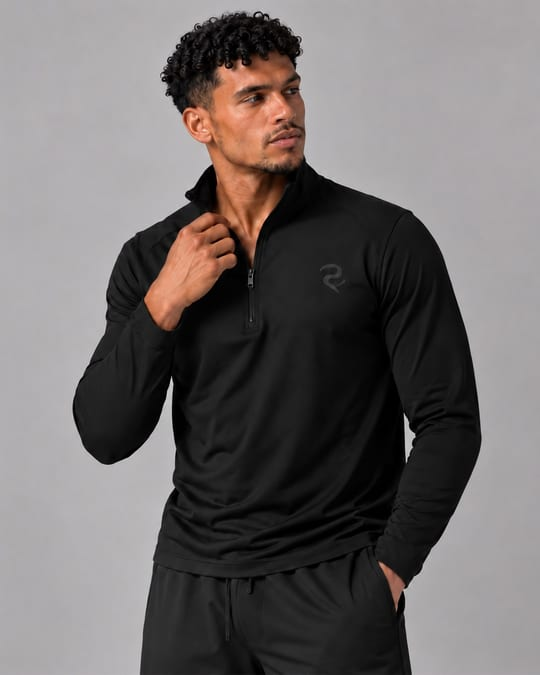
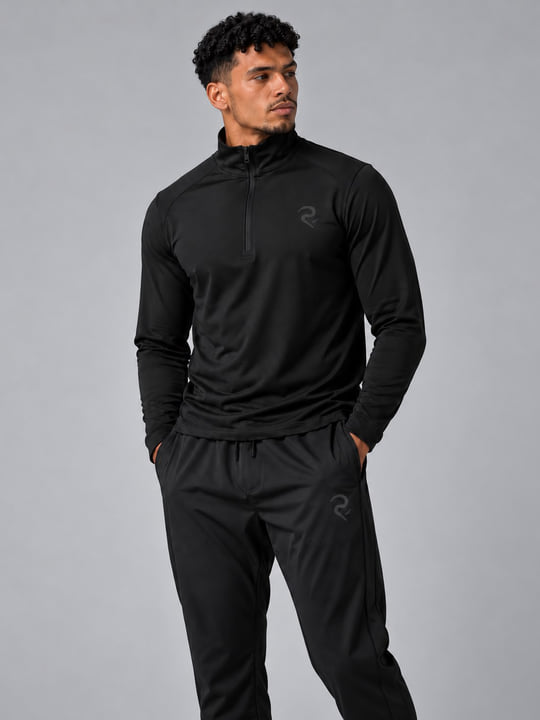
Men's Quarter Zip: add back view; standing front is the cover
Gallery: front (cover), seated, hand-on-collar, back. The old cover is now
quarter-zip-m-collar.jpg and quarter-zip-m.jpg is a copy of the front, so
the bag, search and cards match. Back view trimmed from 3:4 to 4:5 at the
bottom to fit the gallery frame. Homepage card and share image rebuilt.

diff --git a/product.html b/product.html
@@ -377,7 +377,7 @@ const PRODUCTS={
   'jacket-w':{name:"Women's Jacket",gender:"Women's",price:'KES 7,200',priceVal:7200,image:'images/jacket-w-front-2.jpg',images:['images/jacket-w-front-2.jpg','images/jacket-w-three-quarter-2.jpg','images/jacket-w-side-2.jpg','images/jacket-w-back-2.jpg'],sizes:['S','M','L','XL','XXL'],desc:"A versatile training jacket built for warm-ups, cool-downs, and everything in between. Two side pockets and a straight fit.",details:['Full-length zip front','Two side zip pockets','Straight fit','Fabric: 100% Polyester']},
   'tshirt-w':{name:"Women's T-Shirt",gender:"Women's",price:'KES 4,200',priceVal:4200,image:'images/tshirt-w-front-angle.jpg',images:['images/tshirt-w-front-angle.jpg','images/tshirt-w-front.jpg','images/tshirt-w-back.jpg','images/tshirt-w-detail.jpg','images/tshirt-w-movement.jpg'],sizes:['S','M','L','XL','XXL'],desc:"A clean training tee built for movement. Lightweight moisture-wicking fabric, a relaxed fit that stays in place, and a full-length hem. Wear it to the gym, on a run, or straight after.",details:['Moisture-wicking fabric','Relaxed fit, full length','Crew neck','Flatlock shoulder seams','Fabric: 89% Polyester, 11% Elastane']},
   'tshirt-m':{name:"Men's T-Shirt",gender:"Men's",price:'KES 4,200',priceVal:4200,image:'images/tshirt-m.jpg',images:['images/tshirt-m.jpg','images/tshirt-m-side.jpg','images/tshirt-m-back.jpg'],sizes:['S','M','L','XL','XXL'],desc:"A training tee that does its job without getting in the way. Sweat-wicking fabric, a clean regular fit, and a slightly dropped hem. Equally at home in the gym or on the way there.",details:['Moisture-wicking fabric','Regular fit with dropped hem','Crew neck','Flatlock shoulder seams','Fabric: 89% Polyester, 11% Elastane']},
-  'quarter-zip-m':{name:"Men's Quarter Zip",gender:"Men's",price:'KES 5,600',priceVal:5600,image:'images/quarter-zip-m.jpg',images:['images/quarter-zip-m.jpg','images/quarter-zip-m-seated.jpg','images/quarter-zip-m-front.jpg'],sizes:['S','M','L','XL','XXL'],desc:"The warm-up layer you'll reach for every session. Quarter-zip collar, flatlock seams, and a clean minimal aesthetic. Lightweight enough to keep on during training.",details:['Quarter-zip collar','Flatlock seam construction','Regular straight fit','Moisture-wicking fabric','Fabric: 83% Polyester, 17% Elastane']},
+  'quarter-zip-m':{name:"Men's Quarter Zip",gender:"Men's",price:'KES 5,600',priceVal:5600,image:'images/quarter-zip-m-front.jpg',images:['images/quarter-zip-m-front.jpg','images/quarter-zip-m-seated.jpg','images/quarter-zip-m-collar.jpg','images/quarter-zip-m-back.jpg'],sizes:['S','M','L','XL','XXL'],desc:"The warm-up layer you'll reach for every session. Quarter-zip collar, flatlock seams, and a clean minimal aesthetic. Lightweight enough to keep on during training.",details:['Quarter-zip collar','Flatlock seam construction','Regular straight fit','Moisture-wicking fabric','Fabric: 83% Polyester, 17% Elastane']},
   'shorts-m':{name:"Men's Shorts",gender:"Men's",price:'KES 6,050',priceVal:6050,image:'images/shorts-m-crop.jpg',images:['images/shorts-m-crop.jpg','images/shorts-m.jpg','images/shorts-m-side.jpg','images/shorts-m-back.jpg'],sizes:['S','M','L','XL','XXL'],desc:"Lightweight training shorts with an internal compression liner. Elastic waistband with drawcord. Side slit hem for full range of movement. Rear zip pocket.",details:['Internal compression liner','Elastic waistband with drawcord','Side slit hem','Rear zip pocket','Quick-dry fabric','Fabric: Outer Body: 92% Polyester, 8% Elastane / Outer Insert Fabric: 88% Polyester, 12% Elastane / Inner Layer Fabric: 88% Polyamide, 12% Elastane']},
   'training-pants-m':{name:"Training Pants",gender:"Men's",price:'KES 6,600',priceVal:6600,image:'images/training-pants-m-crop.jpg',images:['images/training-pants-m-crop.jpg','images/training-pants-m.jpg','images/training-pants-m-side.jpg','images/training-pants-m-back.jpg'],sizes:['S','M','L','XL','XXL'],desc:"Full-length training pants built for early mornings and cool weather. Tapered fit, ankle zips for easy on/off, and a secure waistband.",details:['Tapered running fit','Ankle zip cuffs','Elastic waistband with drawcord','Two zip side pockets','Fabric: Main Fabric: 75% Polyamide, 25% Elastane / Insert Fabric: 88% Polyester, 12% Elastane']},
   'ankle-socks':{name:'Ankle Socks',gender:'Unisex',price:'KES 550',priceVal:550,image:'images/ankle-socks.jpg',sizes:['S/M','L/XL'],colour:'White',swatchHex:'#f5f5f5',swatchBorder:'#e5e7eb',desc:"Unisex low-cut ankle socks that stay in place through any session. Cushioned toe box and a breathable cotton-blend knit.",care:"Warm machine wash at a maximum of 40°C. Wash and dry inside out. Wash dark colours separately. Do not bleach. Warm tumble dry. Dry without delay.",careIcons:['wash-40','no-bleach','no-iron','no-dry-clean'],details:['Ankle-cut low profile','Cushioned toe box','Breathable cotton-blend knit','Fabric: 75% Cotton, 21% Polyamide, 4% Elastane']},
